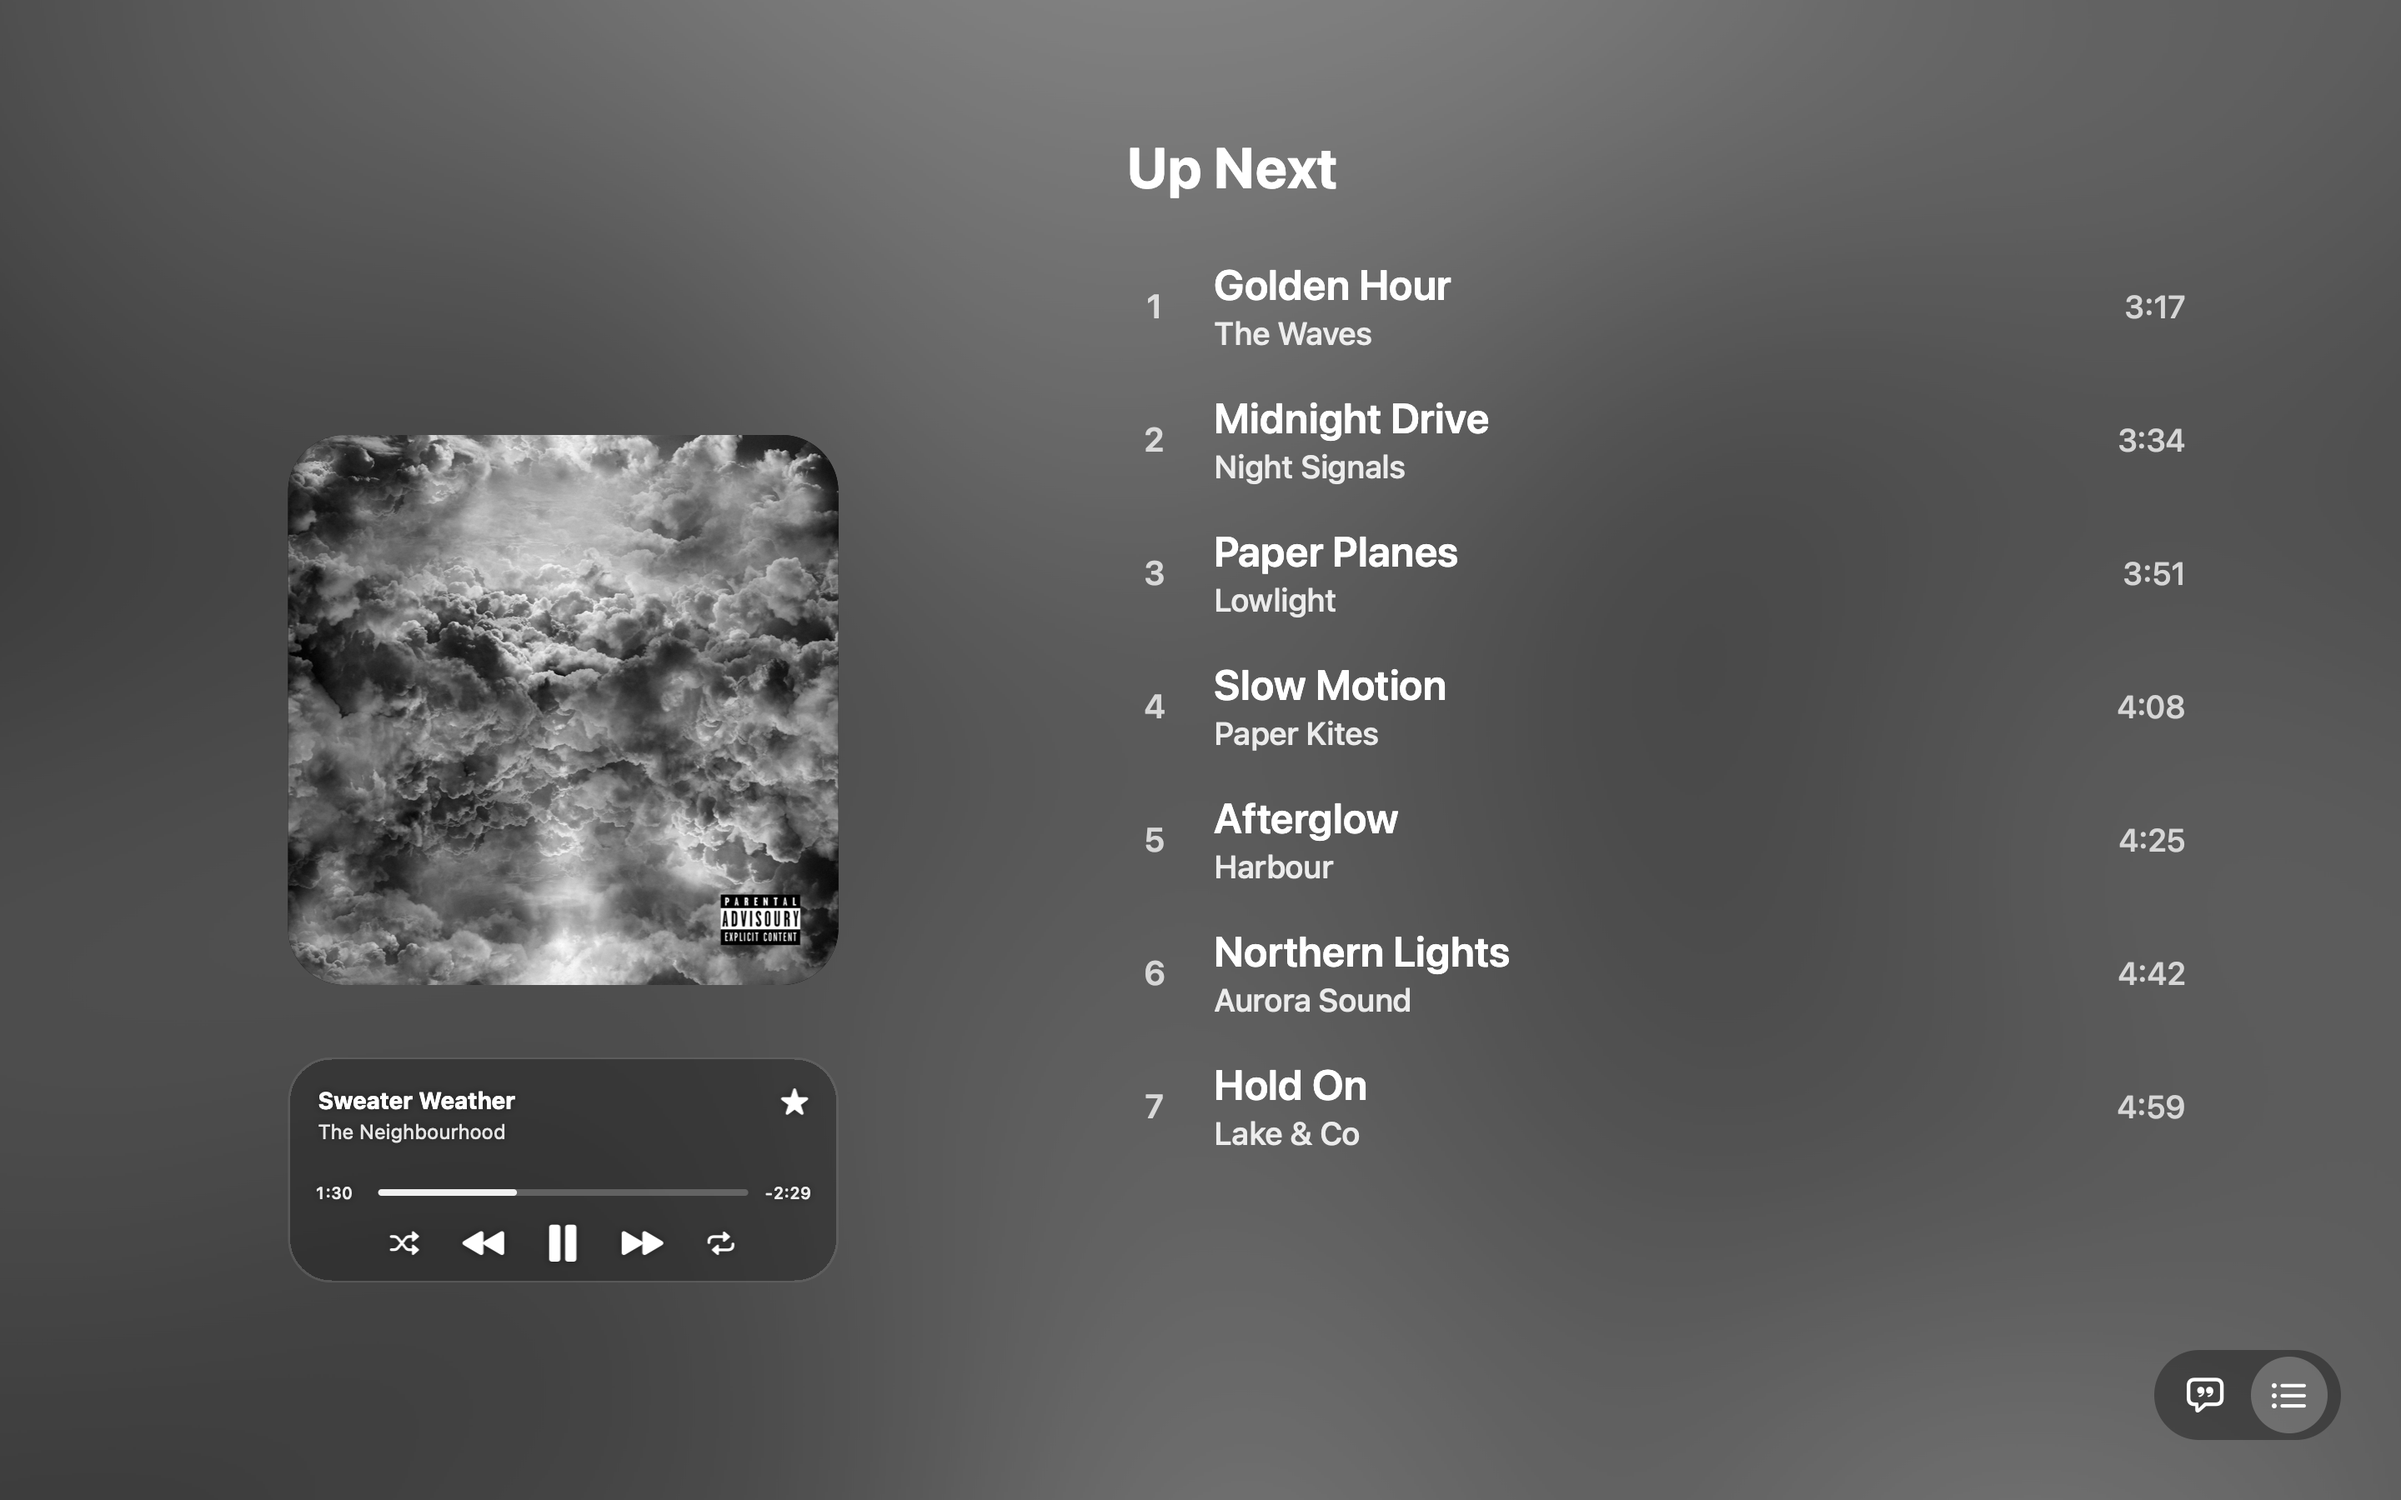
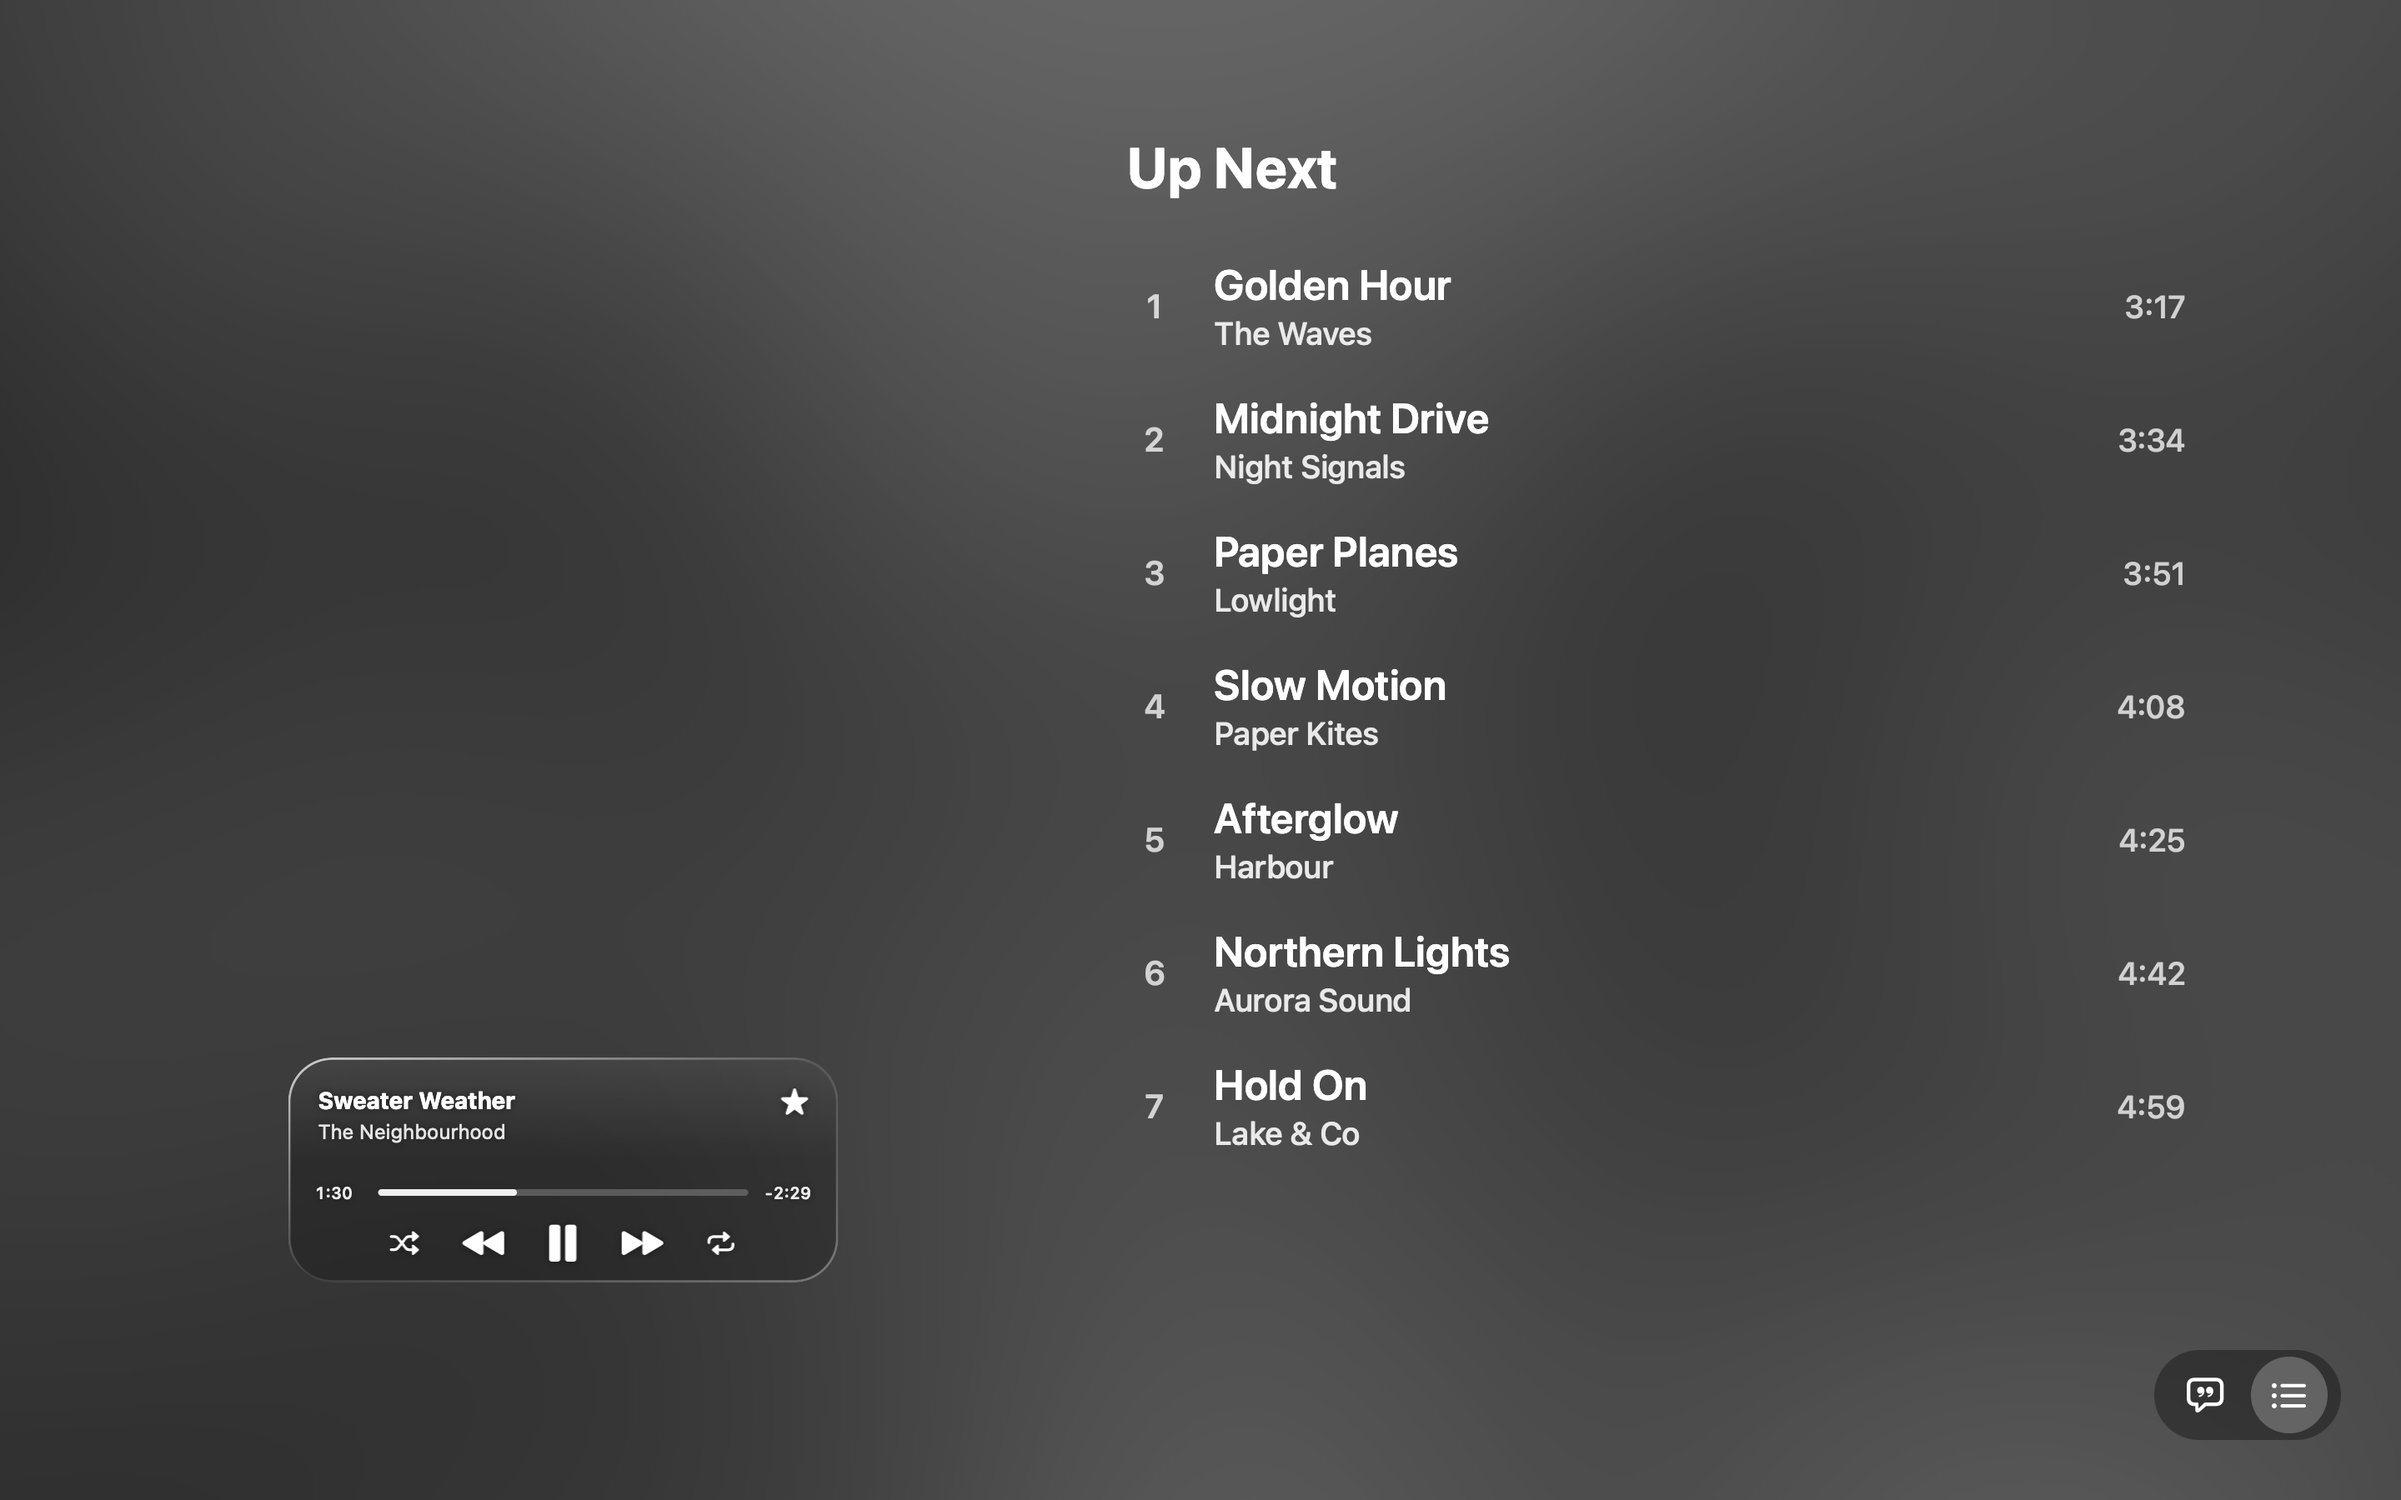
README images: card drawn as Liquid Glass, memory stat no longer clipped
- The player card in the README images now uses the same glass look as the app (the blur can't render offscreen, so a stronger tint stands in)
- Performance image: "~100 MB" fits its card
- Hero, popover and lock screen images regenerated (aligned popover icons, lyrics and queue buttons)

Changed region(s): [[0.0938, 0.28, 0.375, 0.6844], [0.2812, 0.0, 0.7188, 0.1867]]

diff --git a/Sources/LockScreen.swift b/Sources/LockScreen.swift
@@ -144,6 +144,13 @@ final class GlassBackground: NSView {
     }
     required init?(coder: NSCoder) { fatalError("init(coder:) is not used") }
 
+    /// README images only: the blur layer can't render offscreen (it comes out white), so it is left out and the tint is a little
+    /// stronger to stand in for the blur; the shine and the bright edge stay, so it still reads as glass.
+    func hideBlurForScreenshots() {
+        backdrop?.isHidden = true
+        tint.backgroundColor = NSColor.black.withAlphaComponent(0.22).cgColor
+    }
+
     override func layout() {
         super.layout()
         CATransaction.begin(); CATransaction.setDisableActions(true)
@@ -447,10 +454,18 @@ final class LockCardView: NSView {
     func useFlatBackgroundForScreenshots(fullscreen on: Bool) {
         if on { fullscreen = true; layoutTexts(animated: false); cover.alphaValue = 0 }   // small cover away, text slid left, instantly
         glass.isHidden = true
-        liquid?.isHidden = true
-        tint.isHidden = false
-        tint.layer?.backgroundColor = NSColor(white: 0.10, alpha: 0.42).cgColor   // see-through, like the glass
-        layer?.borderWidth = 1
+        tint.isHidden = true
+        liquid?.isHidden = false
+        (liquid as? GlassBackground)?.hideBlurForScreenshots()
+        layer?.borderWidth = 0
+        applyTextShadow(true)
+    }
+
+    /// A very clear card needs a soft dark shadow behind the text and controls to stay readable on bright wallpapers.
+    private func applyTextShadow(_ on: Bool) {
+        let sh = NSShadow()
+        sh.shadowColor = NSColor.black.withAlphaComponent(0.45); sh.shadowBlurRadius = 5; sh.shadowOffset = .zero
+        [titleL, artistL, elapsedL, remainL, shuffleB, prevB, playB, nextB, repeatB, favB].forEach { $0.shadow = on ? sh : nil }
     }
 
     /// Frosted glass (default) or real Liquid Glass, per the setting.

diff --git a/Sources/Demo.swift b/Sources/Demo.swift
@@ -107,7 +107,7 @@ enum Demo {
 
         func stat(_ big: String, _ label: String) -> some View {
             VStack(spacing: 10) {
-                Text(big).font(.system(size: 92, weight: .bold, design: .rounded))
+                Text(big).font(.system(size: 92, weight: .bold, design: .rounded)).lineLimit(1).minimumScaleFactor(0.5).padding(.horizontal, 18)
                 Text(label).font(.system(size: 24, weight: .medium)).foregroundStyle(.white.opacity(0.75))
             }
             .frame(width: 330, height: 220)
